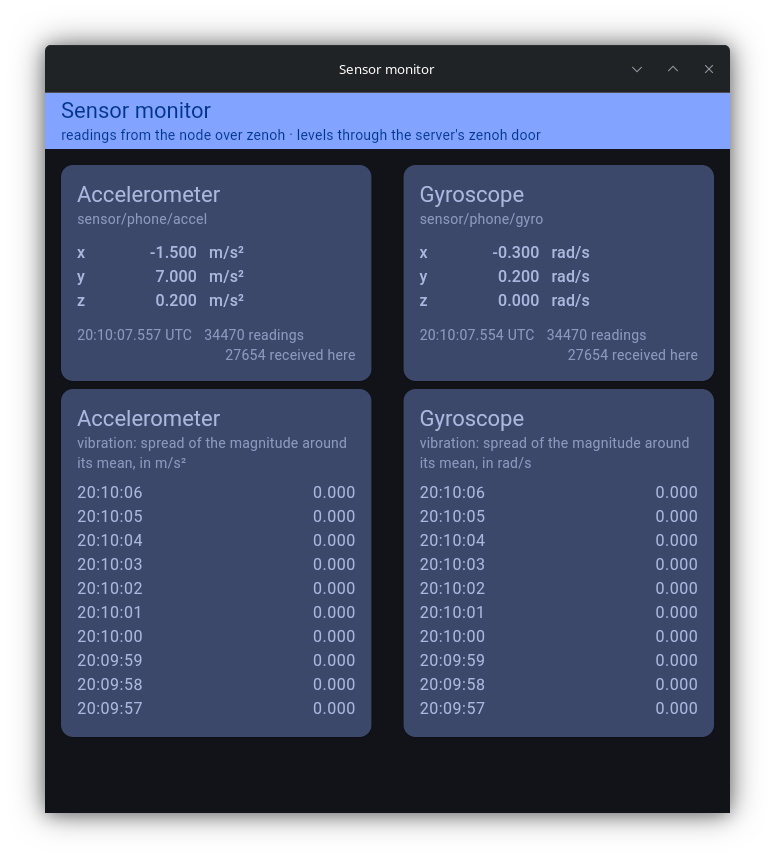
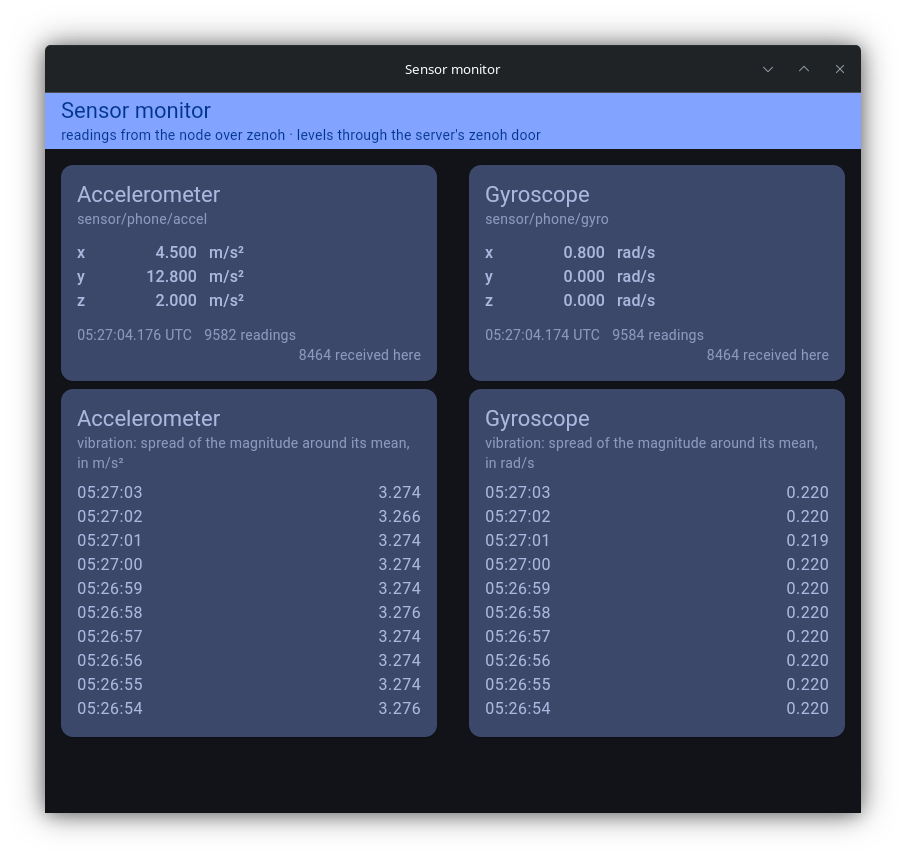
docs: the three figures retaken on 14 October with the levels non-zero; the phone run's placeholder dropped
The emulator run of 14 October, the sensors moved for minutes before the
captures, so every level on the page, the monitor and the phone is non-zero.
The figures keep their shared height; the Results paragraph names the counts
at these captures. The phone run is skipped, so the router-bytes sentence
stands as the reason the measurement is missing, without a placeholder.

Changed region(s): [[0.031, 0.0606, 0.96, 0.9394], [0.4335, 0.0606, 0.5574, 0.0909]]

diff --git a/README.md b/README.md
@@ -21,8 +21,8 @@ Android emulator and on a Pixel 9a over Wi-Fi; the server and the monitor run on
 
 <table><tr>
 <td valign="top"><a href="docs/phone-live.png"><img src="docs/phone-live.png" width="171" height="360" alt="The phone's Live tab"></a></td>
-<td valign="top"><a href="docs/page.png"><img src="docs/page.png" width="304" height="360" alt="The page in a browser"></a></td>
-<td valign="top"><a href="docs/monitor.png"><img src="docs/monitor.png" width="325" height="360" alt="The monitor on Linux"></a></td>
+<td valign="top"><a href="docs/page.png"><img src="docs/page.png" width="306" height="360" alt="The page in a browser"></a></td>
+<td valign="top"><a href="docs/monitor.png"><img src="docs/monitor.png" width="380" height="360" alt="The monitor on Linux"></a></td>
 </tr></table>
 
 *Fig. 1 to 3, left to right: the phone, its Live tab, a card per sensor; the page in a browser, through the web
@@ -587,10 +587,9 @@ with a VPN up on both and local traffic let through. The phone publishes two sen
 a second, and the server keeps a level per sensor per second. During the fresh-clone run of 13 October, readings
 published and readings received were counted over the same interval at the terminal collector, a Zenoh peer like the
 monitor: 93 published and 93 received for each sensor, none lost. The page and the monitor each show the phone's number
-for its latest reading beside their own count since they opened; at capture the page read 38216 and 27175, the monitor
-34470 and 27654. The bytes on the router's sockets were not measured in this run, since the emulator's node is a client
-of the router, which carries its readings by design; that measurement needs the phone as a peer. *[The phone run adds
-it.]*
+for its latest reading beside their own count since they opened; at the captures of 14 October the page read 10290 and
+9070, the monitor 9582 and 8464. The bytes on the router's sockets were not measured in this run, since the emulator's
+node is a client of the router, which carries its readings by design; that measurement needs the phone as a peer.
 
 ## Applications and limits
 
